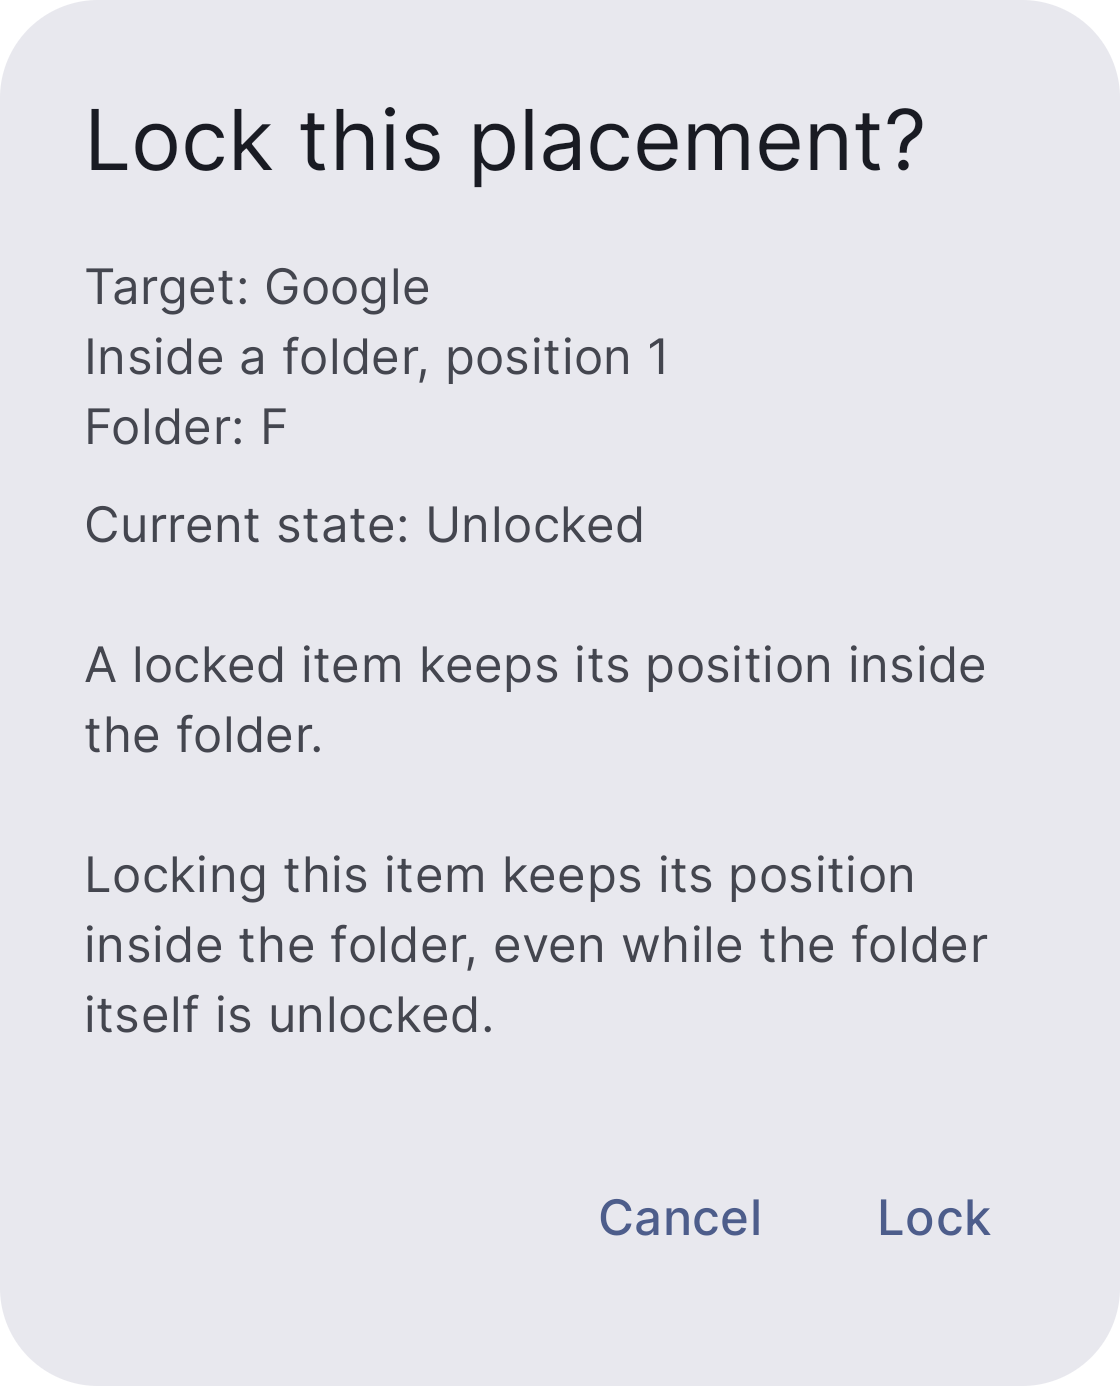
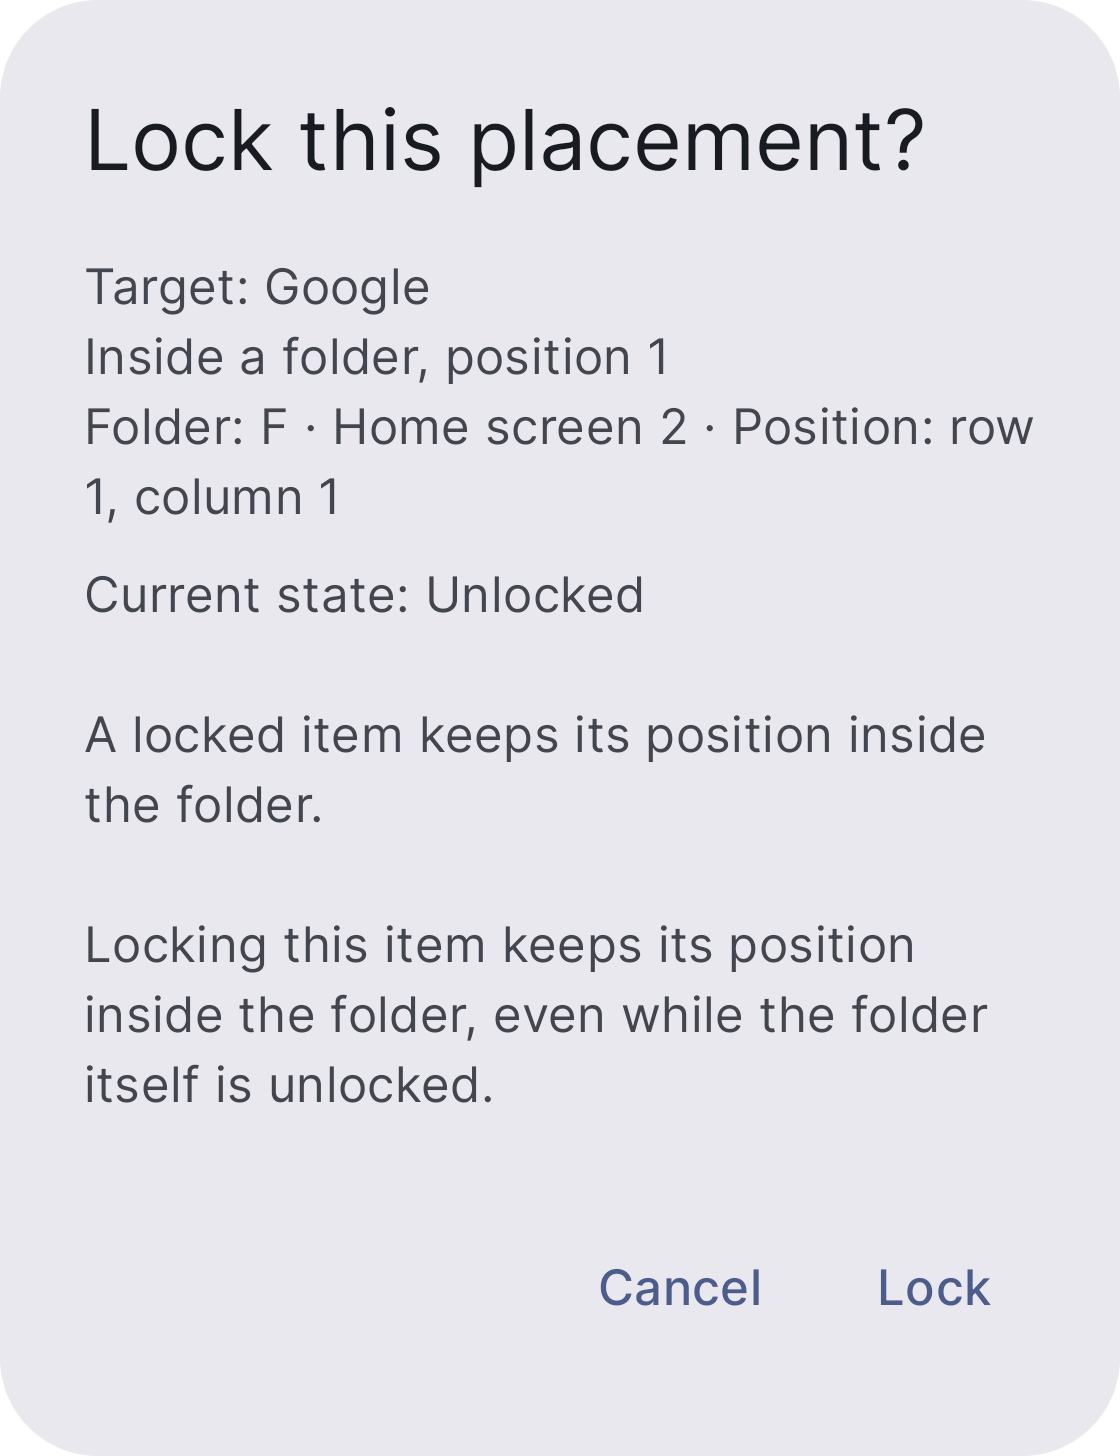
Refresh dialog evidence with the parent-placement disambiguator (211)
The screenshots predated the second review fix that appends the
parent's own placement to the folder and app-pair disambiguator line.
Recaptured the five dialog images through the evidence gate at the
current UI (en-US, ja-JP, and one 200% font-scale capture that now
exercises the disambiguator wrap), and updated the README capture head
and descriptions.

diff --git a/docs/evidence/issue-211/README.md b/docs/evidence/issue-211/README.md
@@ -3,11 +3,12 @@
 Representative evidence for the lock confirmation dialog naming its target
 (Issue #211, spec `specs/211-lock-dialog-target-identity/spec.md` AC-1/AC-2/AC-4).
 Captured on the local emulator (`issue209_pixel_7_pro` AVD, Android 16 / API 36,
-`app.lawnchair.debug` build at head `c79ffb8c35` + review-fix, which adds the
-D4 disambiguator line) from the real `PlacementLockPreferences` composable
-with real `values` / `values-ja` resources, driven by the fixture-based Compose
-instrumentation (`OrganizerLockScreenTest.sameTitleState`, which stages two
-same-named `Google` rows — home screen and inside a folder — plus an
+`app.lawnchair.debug` build at head `c10f05813b`, which adds the D4
+disambiguator line including the parent's own placement) from the real
+`PlacementLockPreferences` composable with real `values` / `values-ja`
+resources, driven by the fixture-based Compose instrumentation
+(`OrganizerLockScreenTest.sameTitleState`, which stages two same-named
+`Google` rows — home screen and inside a folder — plus an
 effectively-protected row, mirroring the UX review F-05 observation).
 Captures were taken through the evidence gate
 (`-Pandroid.testInstrumentationRunnerArguments.captureEvidence=true`); the
@@ -18,10 +19,10 @@ emulator system dialogs cannot overlay the evidence.
 |---|---|---|
 | `en-01-rows.png` | en-US | The management screen with two same-named `Google` rows (`Home screen 1` / `Inside a folder, position 1`) and an effectively-protected row — the exact ambiguity from UX review F-05. |
 | `en-02-dialog-home-screen-row.png` | en-US | The confirmation dialog after tapping the home-screen `Google` row: `Target: Google` + `Home screen 1` + `Position: row 1, column 1` (D4 disambiguator) before `Current state: Unlocked`. |
-| `en-03-dialog-folder-row.png` | en-US | The same dialog after tapping the folder-child `Google` row: `Target: Google` + `Inside a folder, position 1` + `Folder: F` — the dialog text alone distinguishes the two rows, including the colliding-description case. |
+| `en-03-dialog-folder-row.png` | en-US | The same dialog after tapping the folder-child `Google` row: `Target: Google` + `Inside a folder, position 1` + `Folder: F · Home screen 2 · Position: row 1, column 1` — the dialog text alone distinguishes the two rows, including the colliding-description case. |
 | `ja-01-dialog-home-screen-row.png` | ja-JP | `対象: Google` / `ホーム画面 1` / `位置: 1 行 1 列` / `現在の状態: ロック解除済み`. |
-| `ja-02-dialog-folder-row.png` | ja-JP | `対象: Google` / `フォルダ内の位置 1` / `フォルダ: F` — ja copy follows the #161 glossary (`配置`, `フォルダ内の位置`). |
-| `ja-03-dialog-200-percent-font-scale.png` | ja-JP | The same dialog (disambiguator included) at 200% font scale (dialog-window capture): the target block wraps without truncation or layout breakage. |
+| `ja-02-dialog-folder-row.png` | ja-JP | `対象: Google` / `フォルダ内の位置 1` / `フォルダ: F · ホーム画面 2 · 位置: 1 行 1 列` — ja copy follows the #161 glossary (`配置`, `フォルダ内の位置`). |
+| `ja-03-dialog-200-percent-font-scale.png` | en-US | The dialog at 200% font scale (dialog-window capture): the target block including the disambiguator line wraps without truncation or layout breakage. Captured while the device locale was en-US; the ja normal-scale captures above already exercise the localized strings. |
 
 Note: during capture the emulator repeatedly threw transient ANR dialogs
 (System UI / Pixel Launcher) — the same pre-existing environment behavior
